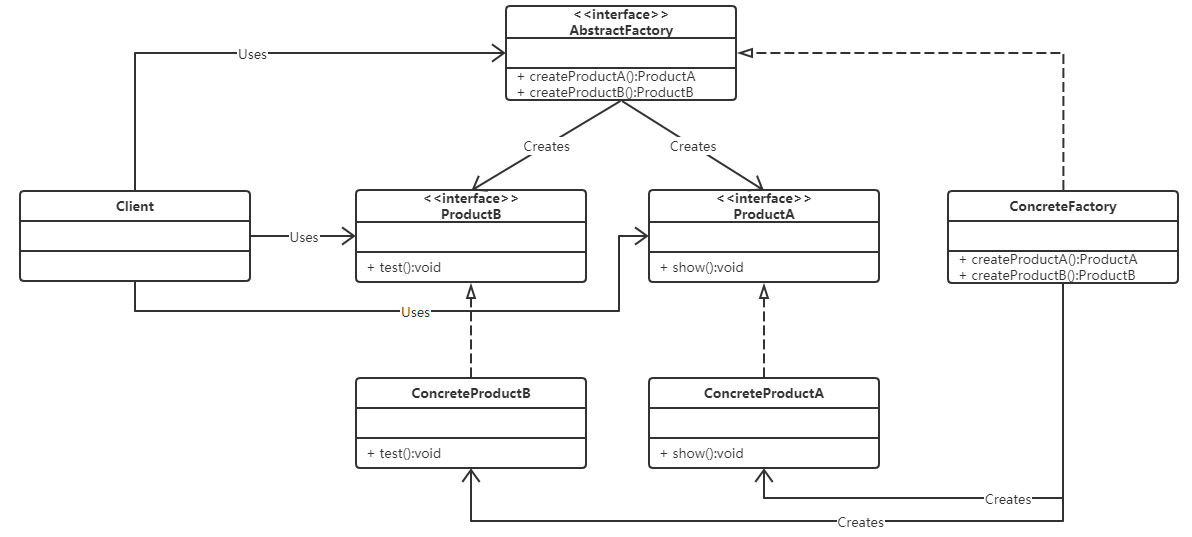
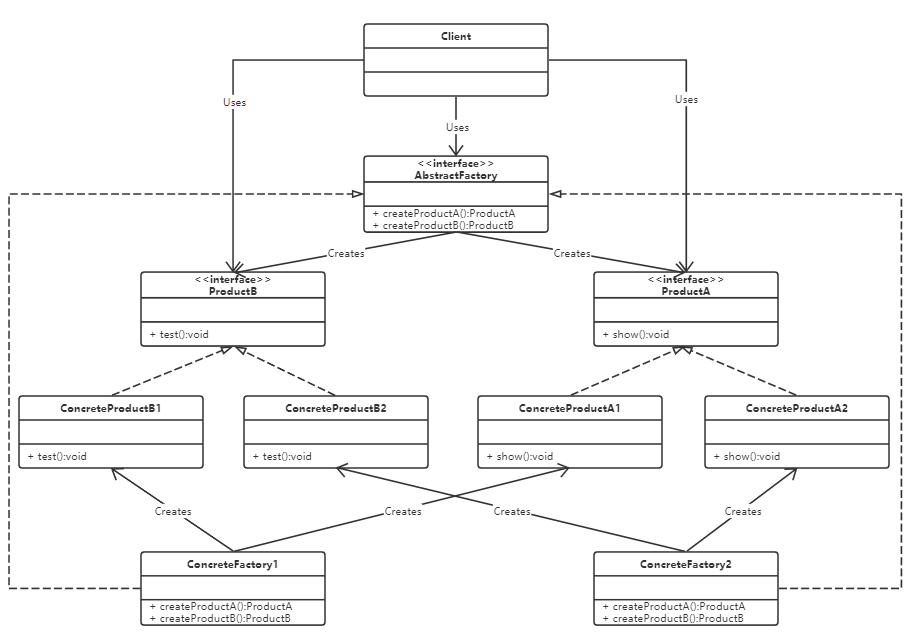
update: 补充抽象工厂模式

diff --git a/src/org/alanlau/factory/abstractFactory/Main.java b/src/org/alanlau/factory/abstractFactory/Main.java
@@ -7,11 +7,17 @@ package org.alanlau.factory.abstractFactory;
  */
 public class Main {
     public static void main(String[] args) {
-        AbstractFactory factory = new ConcreteFactory();
-        ProductA productA = factory.createProductA();
-        ProductB productB = factory.createProductB();
-        productA.show();
-        productB.test();
+        AbstractFactory factory = new ConcreteFactory1();
+        ProductA productA1 = factory.createProductA();
+        ProductB productB1 = factory.createProductB();
+        productA1.show();
+        productB1.test();
+
+        AbstractFactory factory2 = new ConcreteFactory2();
+        ProductA productA2 = factory2.createProductA();
+        ProductB productB2 = factory2.createProductB();
+        productA2.show();
+        productB2.test();
     }
 }
 
@@ -21,17 +27,32 @@ interface AbstractFactory {
 }
 
 /**
- * 实际的工厂
+ * 实际的工厂1
  */
-class ConcreteFactory implements AbstractFactory {
+class ConcreteFactory1 implements AbstractFactory {
     @Override
     public ProductA createProductA() {
-        return new ConcreteProductA();
+        return new ConcreteProductA1();
     }
 
     @Override
     public ProductB createProductB() {
-        return new ConcreteProductB();
+        return new ConcreteProductB1();
+    }
+}
+
+/**
+ * 实际的工厂2
+ */
+class ConcreteFactory2 implements AbstractFactory {
+    @Override
+    public ProductA createProductA() {
+        return new ConcreteProductA2();
+    }
+
+    @Override
+    public ProductB createProductB() {
+        return new ConcreteProductB2();
     }
 }
 
@@ -49,22 +70,30 @@ interface ProductB {
     void test();
 }
 
-/**
- * 实际的产品A
- */
-class ConcreteProductA implements ProductA {
+class ConcreteProductA1 implements ProductA {
     @Override
     public void show() {
-        System.out.println("实际的产品A");
+        System.out.println("实际的产品A1");
     }
 }
 
-/**
- * 实际的产品B
- */
-class ConcreteProductB implements ProductB {
+class ConcreteProductA2 implements ProductA {
+    @Override
+    public void show() {
+        System.out.println("实际的产品A2");
+    }
+}
+
+class ConcreteProductB1 implements ProductB {
     @Override
     public void test() {
-        System.out.println("实际的产品B");
+        System.out.println("实际的产品B1");
+    }
+}
+
+class ConcreteProductB2 implements ProductB {
+    @Override
+    public void test() {
+        System.out.println("实际的产品B2");
     }
 }
